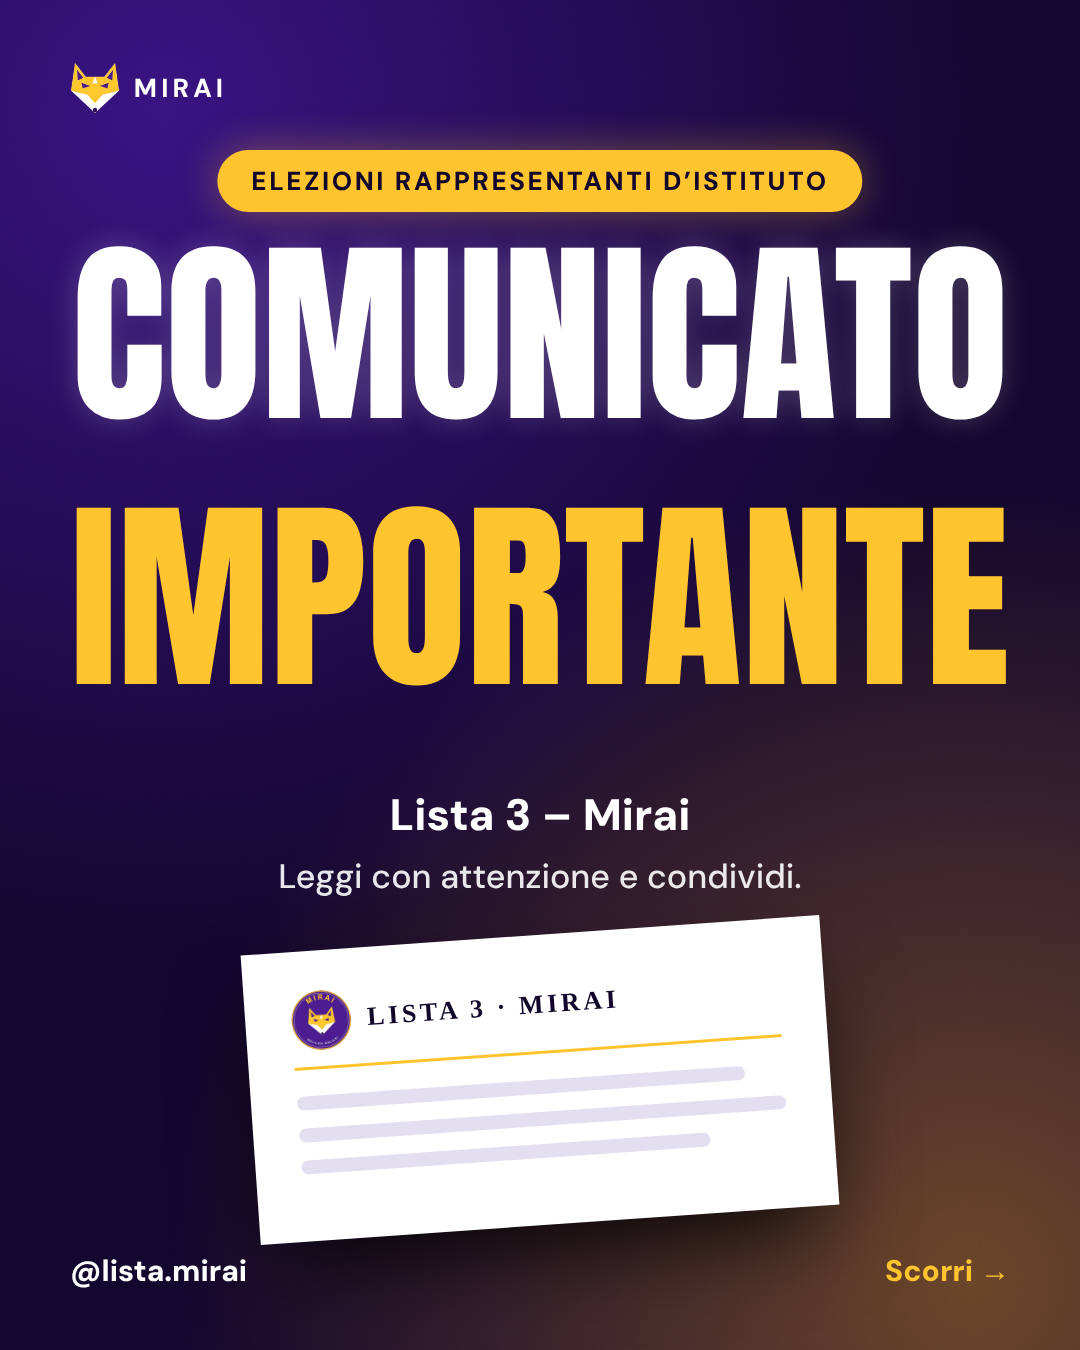
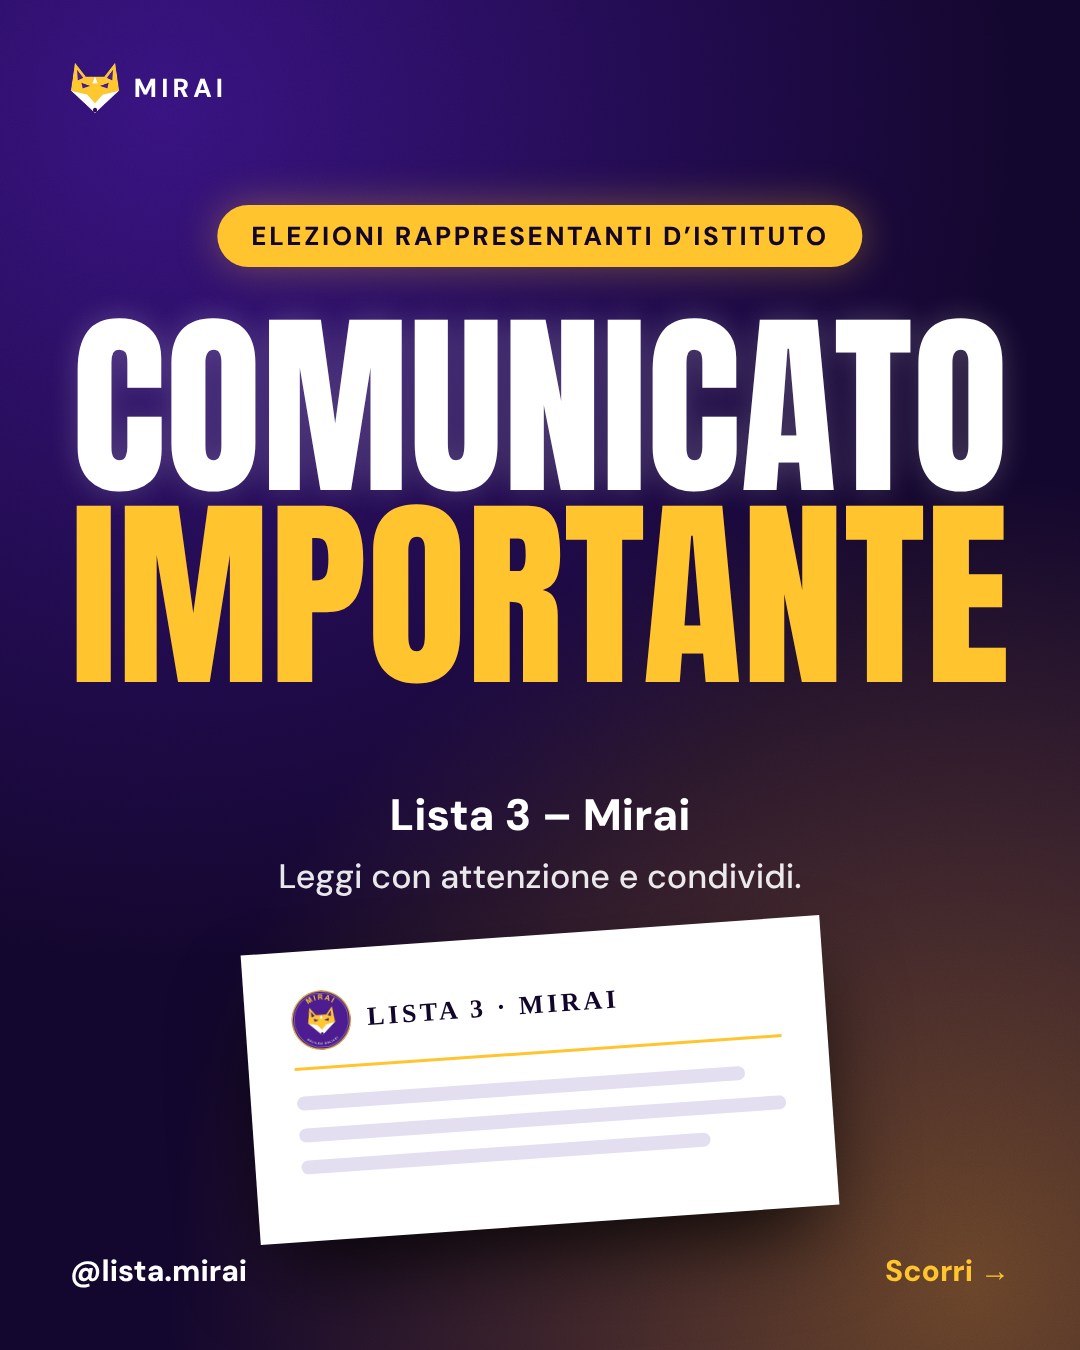
Copertine comunicato: titoli più vicini e centrati
Claude-Session: https://claude.ai/code/session_01R2EF8p8tCb9WtiTgwavMfk

Changed region(s): [[0.0611, 0.0933, 0.9472, 0.4044], [0.825, 0.3733, 0.8556, 0.4044]]

diff --git a/social/campagna/copertina-comunicato.html b/social/campagna/copertina-comunicato.html
@@ -9,6 +9,7 @@
 .st .brand{top:236px}
 .pill{position:absolute;left:50%;transform:translateX(-50%);white-space:nowrap;background:#ffc42e;color:#12062b;font:800 28px "DM Sans";letter-spacing:.1em;text-transform:uppercase;padding:14px 34px;border-radius:99px;z-index:10;box-shadow:0 0 40px rgba(255,196,46,.35)}
 .A{font-family:Anton,Impact,sans-serif;text-transform:uppercase;line-height:.95;white-space:nowrap;position:absolute;left:0;right:0;text-align:center;z-index:10}
+.tt{position:absolute;left:0;right:0;z-index:10}.tt .A{position:static;line-height:.92;margin-bottom:4px}
 .sub{position:absolute;left:70px;right:70px;text-align:center;z-index:10}
 .paper{position:absolute;background:#fff;box-shadow:0 40px 90px -20px rgba(0,0,0,.9);z-index:5;padding:40px 46px;font-family:Tinos,serif;color:#1b1b1f}
 .paper .ln{height:14px;border-radius:7px;background:#e3dff0;margin-bottom:18px}
@@ -17,9 +18,9 @@
 </style></head><body>
 <section class="c" id="p"><div class="bg"></div>
  <div class="brand"><img src="../../assets/fox-96.png" alt="">Mirai</div>
- <div class="pill" style="top:150px;font-size:26px">Elezioni rappresentanti d’istituto</div>
- <div class="A" data-max="300" data-box="940" style="top:240px;color:#fff;text-shadow:0 0 30px rgba(255,255,255,.2)">Comunicato</div>
- <div class="A" data-max="300" data-box="940" style="top:500px;color:#ffc42e">Importante</div>
+ <div class="pill" style="top:205px;font-size:26px">Elezioni rappresentanti d’istituto</div>
+ <div class="tt" style="top:315px"><div class="A" data-max="300" data-box="940" style="color:#fff;text-shadow:0 0 30px rgba(255,255,255,.2)">Comunicato</div>
+ <div class="A" data-max="300" data-box="940" style="color:#ffc42e">Importante</div></div>
  <div class="sub" style="top:790px;font:800 44px/1.15 'DM Sans'">Lista 3 – Mirai</div>
  <div class="sub" style="top:855px;font:500 34px/1.3 'DM Sans';opacity:.9">Leggi con attenzione e condividi.</div>
  <div class="paper" style="left:250px;top:935px;width:580px;height:290px;transform:rotate(-4deg)">
@@ -28,9 +29,9 @@
  <div class="foot"><span>@lista.mirai</span><b>Scorri →</b></div></section>
 <section class="c st" id="s"><div class="bg"></div>
  <div class="brand"><img src="../../assets/fox-96.png" alt="">Mirai</div>
- <div class="pill" style="top:380px;font-size:26px">Elezioni rappresentanti d’istituto</div>
- <div class="A" data-max="320" data-box="940" style="top:480px;color:#fff;text-shadow:0 0 30px rgba(255,255,255,.2)">Comunicato</div>
- <div class="A" data-max="320" data-box="940" style="top:760px;color:#ffc42e">Importante</div>
+ <div class="pill" style="top:435px;font-size:26px">Elezioni rappresentanti d’istituto</div>
+ <div class="tt" style="top:550px"><div class="A" data-max="320" data-box="940" style="color:#fff;text-shadow:0 0 30px rgba(255,255,255,.2)">Comunicato</div>
+ <div class="A" data-max="320" data-box="940" style="color:#ffc42e">Importante</div></div>
  <div class="sub" style="top:1060px;font:800 48px/1.15 'DM Sans'">Lista 3 – Mirai</div>
  <div class="sub" style="top:1130px;font:500 36px/1.3 'DM Sans';opacity:.9">Leggi con attenzione e condividi.</div>
  <div class="paper" style="left:250px;top:1240px;width:580px;height:290px;transform:rotate(-4deg)">
